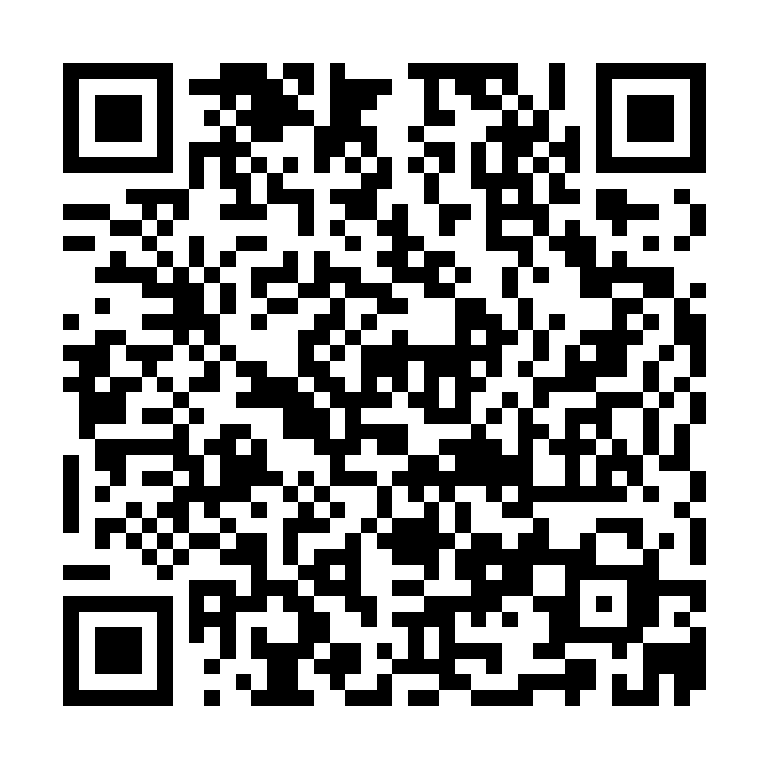
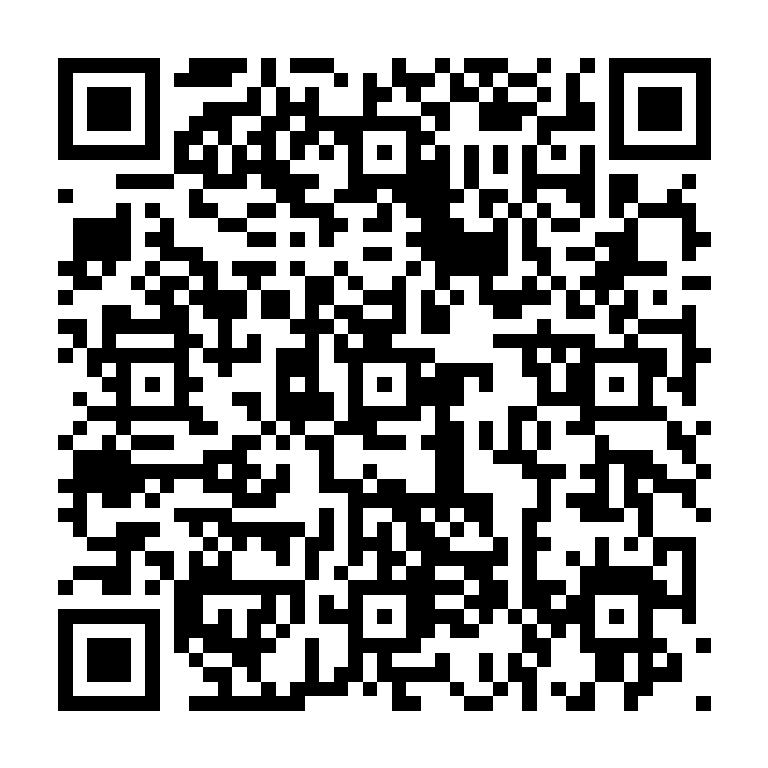
Update QR codes for relocated resumes

diff --git a/resume/qrcodes/index.html b/resume/qrcodes/index.html
@@ -99,7 +99,7 @@
         <h2 id="recent-title">Recent Résumé</h2>
         <p class="description">A concise overview of my recent experience.</p>
         <a class="qr-link" href="../IanNastajusResumeRecent.pdf" aria-label="Open Ian Nastajus's recent résumé">
-            <img src="recent-resume-qr.png" alt="QR code for Ian Nastajus's recent résumé" width="768" height="768">
+            <img src="../IanNastajusResumeRecent-qr.png" alt="QR code for Ian Nastajus's recent résumé" width="768" height="768">
         </a>
         <a class="open-link" href="../IanNastajusResumeRecent.pdf">Open recent résumé</a>
     </section>
@@ -108,7 +108,7 @@
         <h2 id="work-title">Work Résumé</h2>
         <p class="description">A focused summary of my work experience.</p>
         <a class="qr-link" href="../IanNastajusResumeWork.pdf" aria-label="Open Ian Nastajus's work résumé">
-            <img src="work-resume-qr.png" alt="QR code for Ian Nastajus's work résumé" width="768" height="768">
+            <img src="../IanNastajusResumeWork-qr.png" alt="QR code for Ian Nastajus's work résumé" width="768" height="768">
         </a>
         <a class="open-link" href="../IanNastajusResumeWork.pdf">Open work résumé</a>
     </section>
